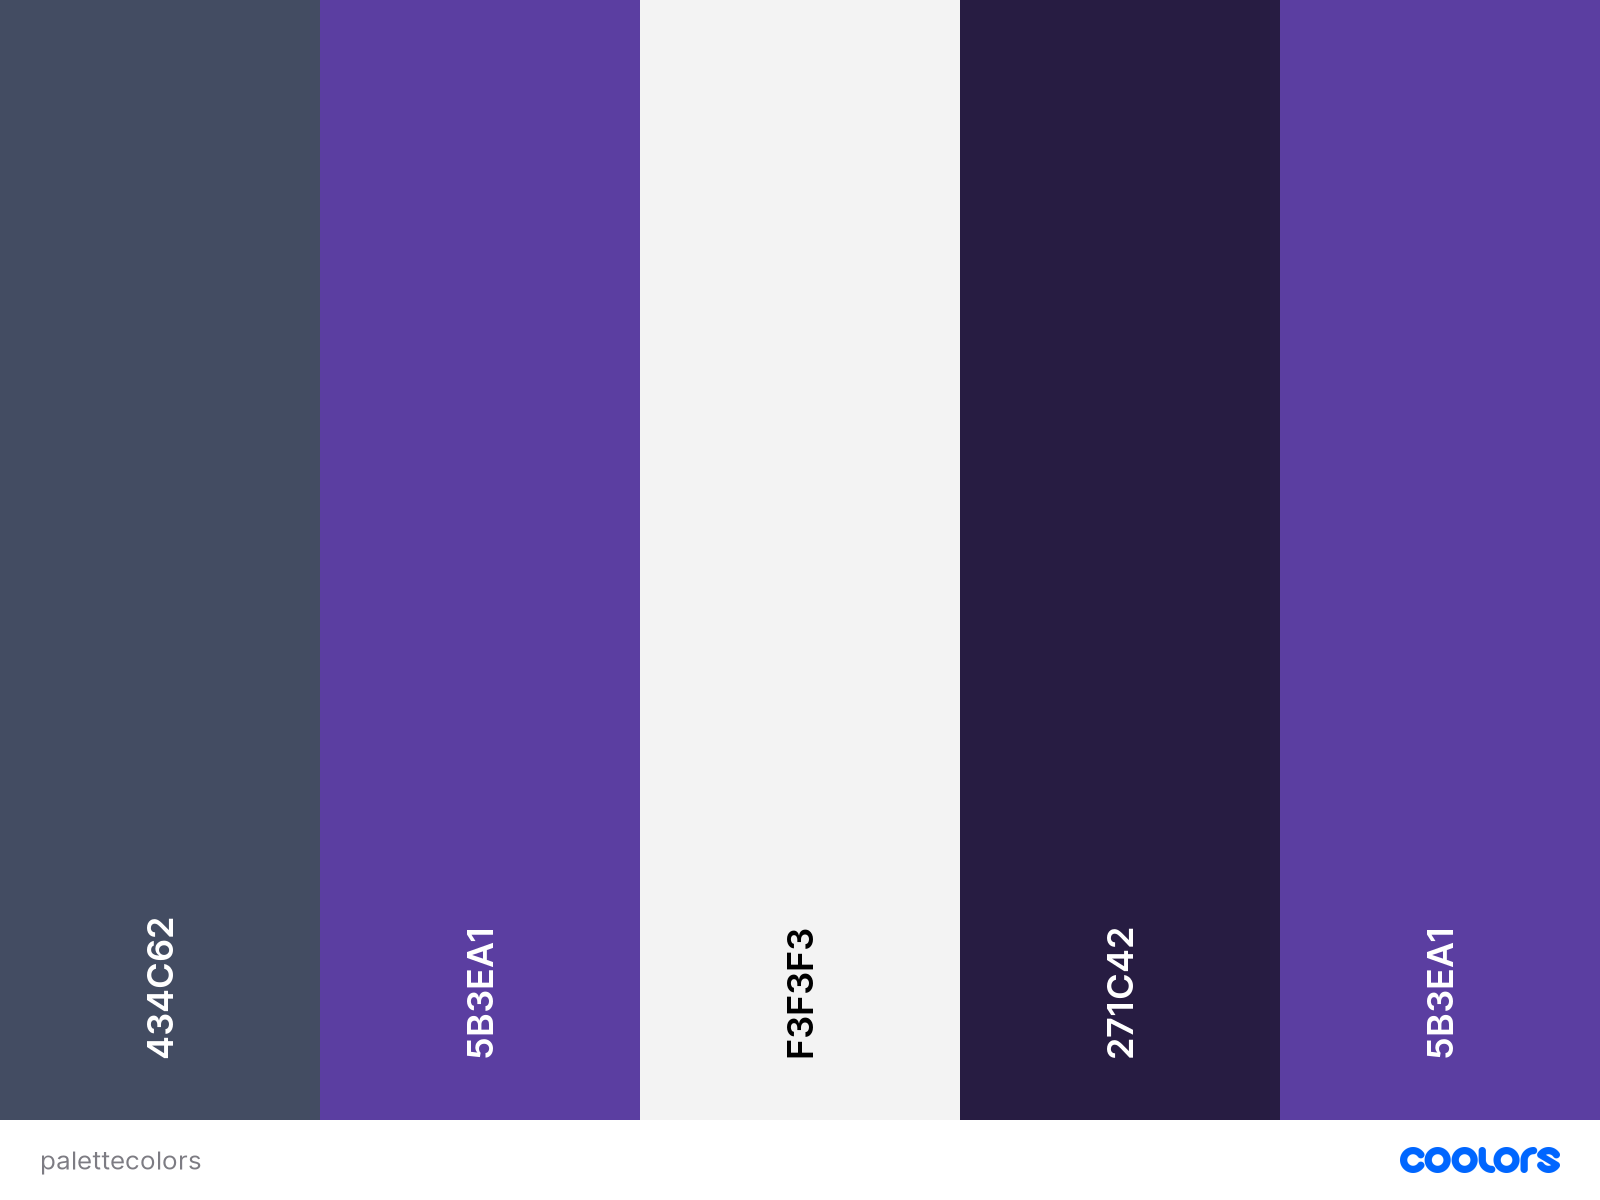
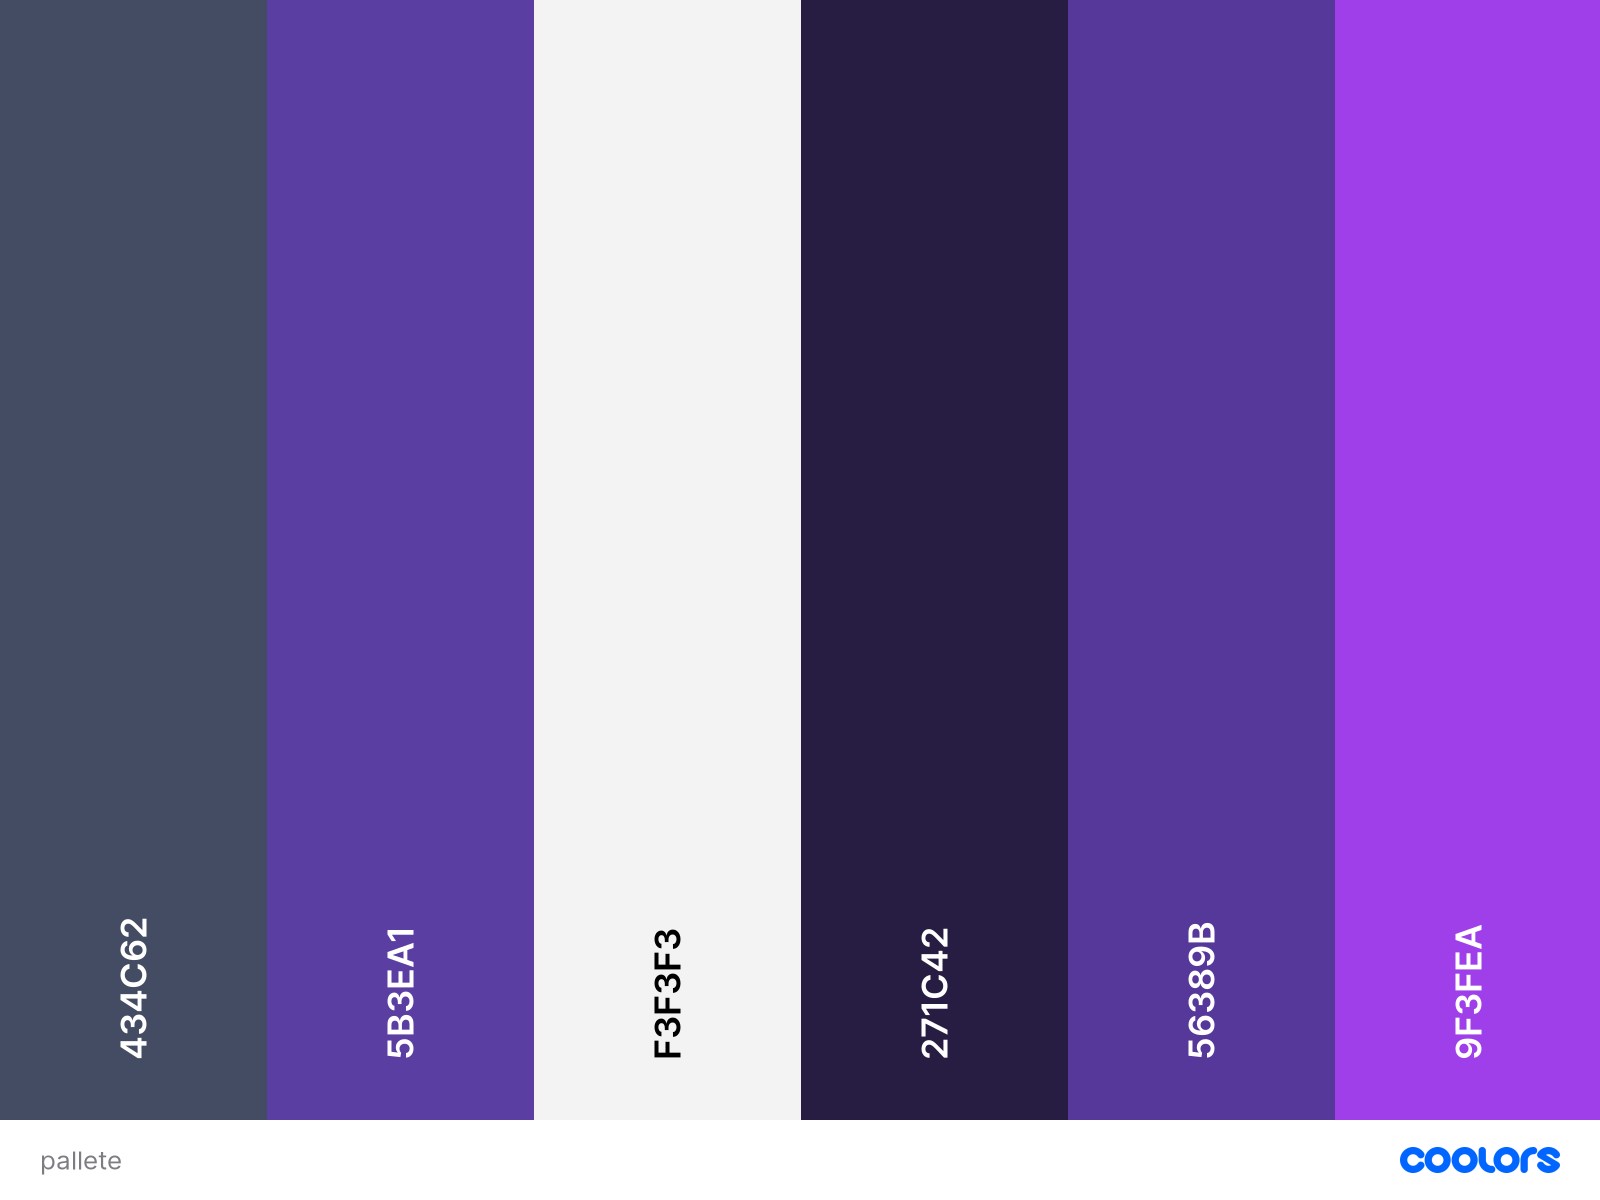
correcting texts and images

diff --git a/docs/modelagem/identidadevisual.md b/docs/modelagem/identidadevisual.md
@@ -1,47 +1,52 @@
-## Histórico de Versão
+## Documento de Identidade Visual
 
-| Data       | Versão | Descrição                                 | Autor(es) |
-| ---------- | ------ | ----------------------------------------- | --------- |
-| 14/01/2022 | 1.0    | Criação do documento e adição de conteúdo | Victor    |
+## Versionamento
 
-# Identidade Visual
+| Data       | Versão | Descrição                                                 | Autores      |
+| ---------- | ------ | --------------------------------------------------------- | ------------ |
+| 14/01/2022 | 1.0    | Criação do documento e adição de conteúdo                 | Victor |
+
 
 ## 1.Introdução
 
 O documento de identidade visual tem o objetivo de listar os componentes visíveis na aplicação PartyRent, contendo nele tipografia, paleta de cores, logotipo e o protótipo de alta fidelidade.
 
+
 ## 2. Paleta de Cores
 
-### &emsp; 2.1. Composição do corpo do site
 
-&emsp;A paleta de cores escolhida para o site apresenta uma variação de tonalidades predominantemente roxa, chamada Russian violet.
+### &emsp; 2.1 Composição do corpo do site
 
-[![Russian Violet](../modelagem/imagensmodel/palettecolors.png)](../modelagem/imagensmodel/palettecolors.png)
+ &emsp;A paleta de cores escolhida para o site apresenta uma variação de tonalidades predominantemente roxa, chamada Purple X 11.
 
-#### &emsp; 2.1.1. Código hexadecimal das cores
+ [![Russian Violet](../modelagem/imagensmodel/palettecolors.png)](../modelagem/imagensmodel/palettecolors.png)
+ 
 
--   Independece: #434C62
--   Plump Purple 4: #5B3EA1
--   Cultured: #F3F3F3
--   Russian Violet: #271C42
--   Rebecca Purple: #56389B
+#### &emsp; 2.1.1 Código hexadecimal das cores
+* Independece: #434C62
+* Plump Purple 4: #5B3EA1
+* Cultured: #F3F3F3
+* Russian Violet: #271C42
+* Rebecca Purple: #56389B
+* Purple X 11 #9F3FEA
 
-### &emsp; 2.2. Composição de cores da tipografia
 
-#### &emsp; 2.2.1. Textos
+### &emsp; 2.2 Composição de cores da tipografia
 
--   **Títulos:** #131519.
--   **Textos:** #8190A5.
--   **Menus:** #FFFFFF.
+#### &emsp; 2.2.1 Textos
 
-#### &emsp; 2.2.2. Logotipo
+ * **Títulos:** #272727.
+ * **Textos:** #272727.
+ * **Menus:** #FFFFFF.
 
--   **Letras:** #434C62.
--   **Resto da composição:** #5B3EA1.
+#### &emsp; 2.2.2 Logotipo
+
+ * **Letras:** #434C62.
+ * **Resto da composição:** #5B3EA1.
 
 ## &ensp; 3. Logotipo
 
-&emsp;Foi escolhida para a logotipo uma composição básica de elementos, sendo apenas a palavra _PartyRent_ na fonte _Offside_, com um ícone na cor Plump Purple.
+ &emsp;Foi escolhida para a logotipo uma composição básica de elementos, sendo apenas a palavra *PartyRent* na fonte *Offside*, com um ícone na cor Plump Purple.
 
  <center>
 <img src="../../assets/logo.png" alt="logo" align="middle">
@@ -49,28 +54,29 @@ O documento de identidade visual tem o objetivo de listar os componentes visíve
 
 ## &ensp; 4. Tipografia
 
-### &emsp; 4.1. Títulos
+### &emsp; 4.1 Títulos
 
-| Fonte | Tamanho | Espaçamento das linhas | Espaçamento das letras |
-| :---- | :-----: | :--------------------: | :--------------------: |
-| Lato  |  48px   |          62px          |          0px           |
-| Lato  |  23px   |          auto          |          0px           |
-| Lato  |  26px   |          auto          |          0px           |
+ Fonte | Tamanho | Espaçamento das linhas | Espaçamento das letras
+ :--- | :---: | :---: | :---:
+ Stroke | 23px | auto | 0px 
+ Stroke | 26px | auto | 0px 
 
----
+ ---
 
-### &emsp; 4.2. Textos
+### &emsp; 4.2 Textos
 
-| Fonte | Tamanho | Espaçamento das linhas | Espaçamento das letras |
-| :---- | :-----: | :--------------------: | :--------------------: |
-| Lato  |  18px   |          28px          |          0px           |
+ Fonte | Tamanho | Espaçamento das linhas | Espaçamento das letras
+ :--- | :---: | :---: | :---:
+ Stroke | 18px | 28px | 0px
+ Stroke | 26px | auto | 0px 
 
-### &emsp; 4.3. Menus
+### &emsp; 4.3 Menus
 
-| Fonte | Tamanho | Espaçamento das linhas | Espaçamento das letras |
-| :---- | :-----: | :--------------------: | :--------------------: |
-| Lato  |  24px   |          62px          |          0px           |
+ Fonte | Tamanho | Espaçamento das linhas | Espaçamento das letras
+ :--- | :---: | :---: | :---:
+ Stroke | 24px | 62px | 0px
 
----
 
 ## &ensp; 5. Protótipo de alta fidelidade
+
+<iframe style="border: 1px solid rgba(0, 0, 0, 0.1);" width="800" height="450" src="https://www.figma.com/embed?embed_host=share&url=https%3A%2F%2Fwww.figma.com%2Ffile%2FfFHRC3cngtq6U5MhLsERBD%2FArqDSW---Grupo-7---Prot%25C3%25B3tipo%3Fnode-id%3D116%253A92" allowfullscreen></iframe>

diff --git a/docs/modelagem/diagramacomponentes.md b/docs/modelagem/diagramacomponentes.md
@@ -13,16 +13,16 @@
 
 <p align="justify">O diagrama de componentes mostra o relacionamento entre diferentes componentes de um software. O diagrama ajuda a fornecer uma visualização de alto nível da estrutura física do sistema, além de enfatizar o comportamento de serviços quanto a interface. </p>
 
-<p align="justify"> Os diagramas de componentes vão permitir que a equipe identifique os diferentes componentes para que todo o sistema cumpra o seu objetivo. Contudo, o diagrama irá nos auxiliar na modularização do sistema permitirá a reutilização dos mesmos. Além disso, será possível :
+<p align="justify"> Os diagramas de componentes vão permitir que a equipe identifique os diferentes componentes para que todo o sistema cumpra o seu objetivo. Contudo, o diagrama irá nos auxiliar na modularização do sistema permitirá a reutilização dos mesmos. Além disso, será possível:
 </p>
 
 <ul align="justify">
     <li>Imaginar a estrutura física do sistema.</li>
     <li>Prestar atenção aos componentes do sistema e como eles se relacionam.</li> 
-    <li>Enfatiza o comportamento do serviço quanto à interface..</li> 
+    <li>Enfatizar o comportamento do serviço quanto à interface.</li> 
 </ul>
 
-<p align="justify"> Para a construção do diagrama de componentes foi utilizado a ferramenta Draw.io </p>
+<p align="justify"> Para a construção do diagrama de componentes foi utilizado a ferramenta Draw.io. </p>
 
 [![Diagrama](../modelagem/imagensdiagramas/componentes.png)](../modelagem/imagensdiagramas/componentes.png)
 
